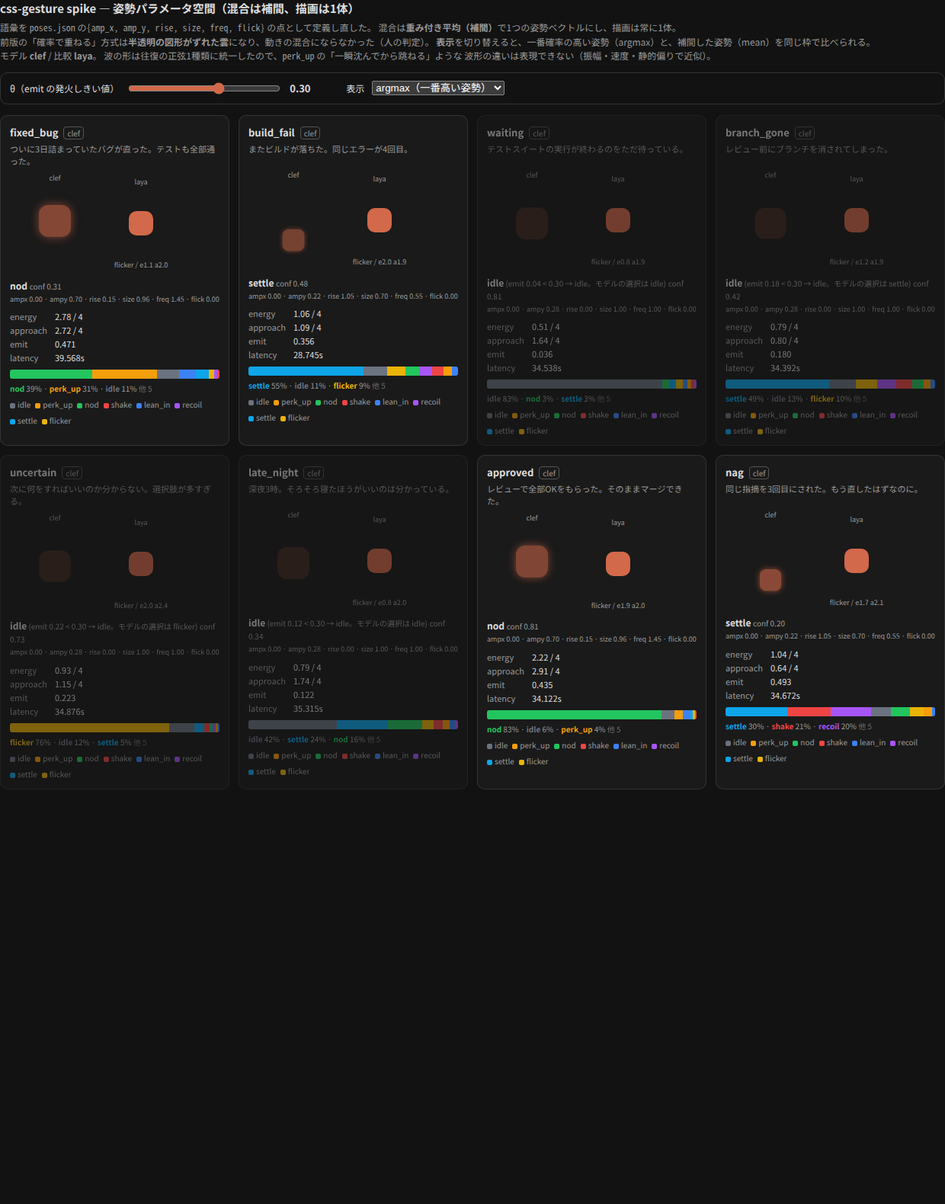
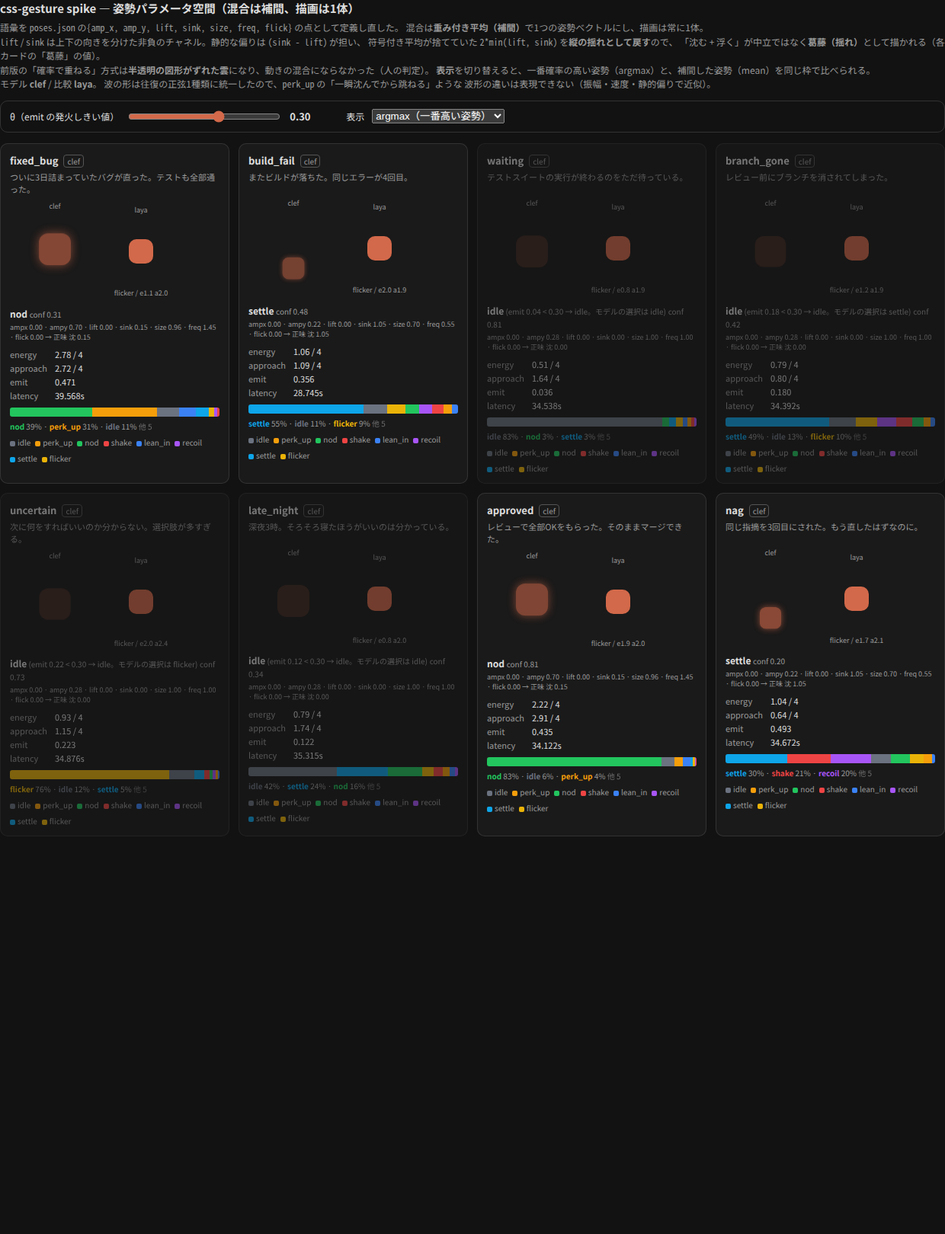
feat(experiments): css-gesture の rise を lift/sink に分割（相殺の修正）
実測で rise が唯一の符号付き次元で、相殺率が 8状態平均 55% だった
（amp_x 0% / flick 0% は片側にしかジェスチャーが無いため）。個別には nag 80% /
fixed_bug 72%。fixed_bug と approved が同じ姿勢になったのは意味が近いからではなく、
差がちょうど相殺される場所にあったため（相殺後の rise が -0.098 と +0.092）。

原理: 線形空間に符号付きの次元を置くと「沈む + 浮く = 中立」を仮定してしまう。
実際は「沈む + 浮く = 葛藤」。nod/shake で軸を分けたのと同じ解決を上下にも適用。

- poses.json: rise を lift / sink（非負）に置換。各ジェスチャーは片方だけを立てる
- 復元則: 静的な偏り = (sink - lift)、縦の振れ幅に + 2*min(lift, sink) を加算。
  これは符号付き平均が捨てる量そのもの（lift + sink - |sink - lift| = 2*min(lift, sink)）
  なので、捨てていた情報を振れとして回復する
- build_viewer.py: varsFor / poseText を更新。葛藤の値をカードに表示
- gestures.css: コメントで復元則を明記（構造変更なし）

検証（アニメを 0% に凍結して getBoundingClientRect で実測）:
- fixed_bug vs approved の縦振幅差 1.08x → 1.31x（中心ズレも -15/-11 → -20/-12 に分離）
- nag の縦振幅 5.51 → 12.09px（2.19x）。相殺で消えていた落ち込みの揺れが戻った
- 単一ジェスチャーは不変: argmax モードで葛藤項が 8/8 件すべて 0。
  片方だけ非ゼロなら min=0 なので純粋な姿勢は旧版と完全に同一。混合のときだけ効く

diff --git a/docs/experiments/css-gesture/index.html b/docs/experiments/css-gesture/index.html
@@ -10,10 +10,10 @@
  * そこで語彙を poses.json の「姿勢パラメータ空間の点」として定義し直し、
  * 混合は**重み付き平均（補間）**で1つの姿勢ベクトルにした。描画は常に1体。
  *
- * 受け取る変数（build_viewer.py が計算して inline style で入れる）:
+ * 受け取る変数（build_viewer.py の JS が計算して inline style で入れる）:
  *   --p-ampx : 横振幅（px）
- *   --p-ampy : 縦振幅（px）
- *   --p-rise : 上下の静的偏り（px。正 = 沈む）
+ *   --p-ampy : 縦振幅（px）。混合の「葛藤」分（2*min(lift, sink)）もここに加算済み
+ *   --p-rise : 上下の静的偏り（px。正 = 沈む）。元は (sink - lift)
  *   --p-size : 体の大きさ
  *   --p-freq : 動きの速さ（大きいほど速い。周期の逆数の相対値）
  *   --p-flick: 明滅の強さ（0-1）
@@ -21,6 +21,7 @@
  *   --p-glow : 発光の強さ（発火の強さ）
  *
  * 軸（縦/横）が連続量なので、nod と shake の混合は「斜めの振れ」として素直に出る。
+ * 上下も lift / sink に割ってあるので、「沈む + 浮く」は相殺せず縦の揺れになる。
  */
 
 .stage {
@@ -134,8 +135,11 @@ dd { margin: 0; font-variant-numeric: tabular-nums; }
 <body>
 <h1>css-gesture spike — 姿勢パラメータ空間（混合は補間、描画は1体）</h1>
 <p class="sub">
-語彙を <code>poses.json</code> の<code>&lbrace;amp_x, amp_y, rise, size, freq, flick&rbrace;</code> の点として定義し直した。
+語彙を <code>poses.json</code> の<code>&lbrace;amp_x, amp_y, lift, sink, size, freq, flick&rbrace;</code> の点として定義し直した。
 混合は<strong>重み付き平均（補間）</strong>で1つの姿勢ベクトルにし、描画は常に1体。<br>
+<code>lift</code> / <code>sink</code> は上下の向きを分けた非負のチャネル。静的な偏りは <code>(sink - lift)</code> が担い、
+符号付き平均が捨てていた <code>2*min(lift, sink)</code> を<strong>縦の揺れとして戻す</strong>ので、
+「沈む + 浮く」が中立ではなく<strong>葛藤（揺れ）</strong>として描かれる（各カードの「葛藤」の値）。<br>
 前版の「確率で重ねる」方式は<strong>半透明の図形がずれた雲</strong>になり、動きの混合にならなかった（人の判定）。
 <strong>表示</strong>を切り替えると、一番確率の高い姿勢（argmax）と、補間した姿勢（mean）を同じ枠で比べられる。<br>
 モデル <b>clef</b> / 比較 <b>laya</b>。
@@ -162,15 +166,15 @@ dd { margin: 0; font-variant-numeric: tabular-nums; }
       <div class="cmp">
         <div class="cmp-label">clef</div>
         <div class="stage"><div class="body" data-role="main"
-        data-pose-top="{&quot;amp_x&quot;: 0.0, &quot;amp_y&quot;: 0.7, &quot;rise&quot;: 0.15, &quot;size&quot;: 0.96, &quot;freq&quot;: 1.45, &quot;flick&quot;: 0.0}"
-        data-pose-mean="{&quot;amp_x&quot;: 0.0083, &quot;amp_y&quot;: 0.6587, &quot;rise&quot;: -0.0976, &quot;size&quot;: 1.0129, &quot;freq&quot;: 1.3728, &quot;flick&quot;: 0.0267}"
+        data-pose-top="{&quot;amp_x&quot;: 0.0, &quot;amp_y&quot;: 0.7, &quot;lift&quot;: 0.0, &quot;sink&quot;: 0.15, &quot;size&quot;: 0.96, &quot;freq&quot;: 1.45, &quot;flick&quot;: 0.0}"
+        data-pose-mean="{&quot;amp_x&quot;: 0.0083, &quot;amp_y&quot;: 0.6587, &quot;lift&quot;: 0.2211, &quot;sink&quot;: 0.1235, &quot;size&quot;: 1.0129, &quot;freq&quot;: 1.3728, &quot;flick&quot;: 0.0267}"
         data-energy="2.781948281233433" data-approach="2.7248762040554406" data-emit="0.47065061788877743"
         data-top="nod"></div></div>
       </div>
       <div class="cmp">
         <div class="cmp-label">laya</div>
         <div class="stage sm"><div class="body" data-role="cmp"
-          data-pose="{&quot;amp_x&quot;: 0.1151, &quot;amp_y&quot;: 0.2086, &quot;rise&quot;: 0.0006, &quot;size&quot;: 0.9734, &quot;freq&quot;: 1.2081, &quot;flick&quot;: 0.5328}"
+          data-pose="{&quot;amp_x&quot;: 0.1151, &quot;amp_y&quot;: 0.2086, &quot;lift&quot;: 0.1078, &quot;sink&quot;: 0.1084, &quot;size&quot;: 0.9734, &quot;freq&quot;: 1.2081, &quot;flick&quot;: 0.5328}"
           data-energy="1.1085895315065621" data-approach="2.010867446223232"
           data-emit="0.05416380573906749"></div></div>
         <div class="cmp-meta">flicker / e1.1 a2.0</div>
@@ -195,15 +199,15 @@ dd { margin: 0; font-variant-numeric: tabular-nums; }
       <div class="cmp">
         <div class="cmp-label">clef</div>
         <div class="stage"><div class="body" data-role="main"
-        data-pose-top="{&quot;amp_x&quot;: 0.0, &quot;amp_y&quot;: 0.22, &quot;rise&quot;: 1.05, &quot;size&quot;: 0.7, &quot;freq&quot;: 0.55, &quot;flick&quot;: 0.0}"
-        data-pose-mean="{&quot;amp_x&quot;: 0.0469, &quot;amp_y&quot;: 0.3059, &quot;rise&quot;: 0.4884, &quot;size&quot;: 0.8325, &quot;freq&quot;: 0.9243, &quot;flick&quot;: 0.0869}"
+        data-pose-top="{&quot;amp_x&quot;: 0.0, &quot;amp_y&quot;: 0.22, &quot;lift&quot;: 0.0, &quot;sink&quot;: 1.05, &quot;size&quot;: 0.7, &quot;freq&quot;: 0.55, &quot;flick&quot;: 0.0}"
+        data-pose-mean="{&quot;amp_x&quot;: 0.0469, &quot;amp_y&quot;: 0.3059, &quot;lift&quot;: 0.0965, &quot;sink&quot;: 0.5849, &quot;size&quot;: 0.8325, &quot;freq&quot;: 0.9243, &quot;flick&quot;: 0.0869}"
         data-energy="1.059922208640876" data-approach="1.0891702567640278" data-emit="0.3558336394126617"
         data-top="settle"></div></div>
       </div>
       <div class="cmp">
         <div class="cmp-label">laya</div>
         <div class="stage sm"><div class="body" data-role="cmp"
-          data-pose="{&quot;amp_x&quot;: 0.0629, &quot;amp_y&quot;: 0.1346, &quot;rise&quot;: 0.0039, &quot;size&quot;: 0.9885, &quot;freq&quot;: 1.1479, &quot;flick&quot;: 0.7523}"
+          data-pose="{&quot;amp_x&quot;: 0.0629, &quot;amp_y&quot;: 0.1346, &quot;lift&quot;: 0.0537, &quot;sink&quot;: 0.0576, &quot;size&quot;: 0.9885, &quot;freq&quot;: 1.1479, &quot;flick&quot;: 0.7523}"
           data-energy="2.0207871318474595" data-approach="1.9222507569040301"
           data-emit="0.11162016520335129"></div></div>
         <div class="cmp-meta">flicker / e2.0 a1.9</div>
@@ -228,15 +232,15 @@ dd { margin: 0; font-variant-numeric: tabular-nums; }
       <div class="cmp">
         <div class="cmp-label">clef</div>
         <div class="stage"><div class="body" data-role="main"
-        data-pose-top="{&quot;amp_x&quot;: 0.0, &quot;amp_y&quot;: 0.28, &quot;rise&quot;: 0.0, &quot;size&quot;: 1.0, &quot;freq&quot;: 1.0, &quot;flick&quot;: 0.0}"
-        data-pose-mean="{&quot;amp_x&quot;: 0.0109, &quot;amp_y&quot;: 0.3039, &quot;rise&quot;: 0.009, &quot;size&quot;: 0.9936, &quot;freq&quot;: 1.0325, &quot;flick&quot;: 0.0312}"
+        data-pose-top="{&quot;amp_x&quot;: 0.0, &quot;amp_y&quot;: 0.28, &quot;lift&quot;: 0.0, &quot;sink&quot;: 0.0, &quot;size&quot;: 1.0, &quot;freq&quot;: 1.0, &quot;flick&quot;: 0.0}"
+        data-pose-mean="{&quot;amp_x&quot;: 0.0109, &quot;amp_y&quot;: 0.3039, &quot;lift&quot;: 0.032, &quot;sink&quot;: 0.041, &quot;size&quot;: 0.9936, &quot;freq&quot;: 1.0325, &quot;flick&quot;: 0.0312}"
         data-energy="0.5057425893281169" data-approach="1.639626740264764" data-emit="0.03626141769958141"
         data-top="idle"></div></div>
       </div>
       <div class="cmp">
         <div class="cmp-label">laya</div>
         <div class="stage sm"><div class="body" data-role="cmp"
-          data-pose="{&quot;amp_x&quot;: 0.1534, &quot;amp_y&quot;: 0.1867, &quot;rise&quot;: 0.0031, &quot;size&quot;: 0.9815, &quot;freq&quot;: 1.2047, &quot;flick&quot;: 0.4701}"
+          data-pose="{&quot;amp_x&quot;: 0.1534, &quot;amp_y&quot;: 0.1867, &quot;lift&quot;: 0.0772, &quot;sink&quot;: 0.0803, &quot;size&quot;: 0.9815, &quot;freq&quot;: 1.2047, &quot;flick&quot;: 0.4701}"
           data-energy="0.8035862374487781" data-approach="1.8855115480383735"
           data-emit="0.062105065616315916"></div></div>
         <div class="cmp-meta">flicker / e0.8 a1.9</div>
@@ -261,15 +265,15 @@ dd { margin: 0; font-variant-numeric: tabular-nums; }
       <div class="cmp">
         <div class="cmp-label">clef</div>
         <div class="stage"><div class="body" data-role="main"
-        data-pose-top="{&quot;amp_x&quot;: 0.0, &quot;amp_y&quot;: 0.22, &quot;rise&quot;: 1.05, &quot;size&quot;: 0.7, &quot;freq&quot;: 0.55, &quot;flick&quot;: 0.0}"
-        data-pose-mean="{&quot;amp_x&quot;: 0.0693, &quot;amp_y&quot;: 0.3037, &quot;rise&quot;: 0.4097, &quot;size&quot;: 0.8414, &quot;freq&quot;: 0.9927, &quot;flick&quot;: 0.1004}"
+        data-pose-top="{&quot;amp_x&quot;: 0.0, &quot;amp_y&quot;: 0.22, &quot;lift&quot;: 0.0, &quot;sink&quot;: 1.05, &quot;size&quot;: 0.7, &quot;freq&quot;: 0.55, &quot;flick&quot;: 0.0}"
+        data-pose-mean="{&quot;amp_x&quot;: 0.0693, &quot;amp_y&quot;: 0.3037, &quot;lift&quot;: 0.1169, &quot;sink&quot;: 0.5266, &quot;size&quot;: 0.8414, &quot;freq&quot;: 0.9927, &quot;flick&quot;: 0.1004}"
         data-energy="0.7860229123961211" data-approach="0.7995392655666422" data-emit="0.17981665398860586"
         data-top="settle"></div></div>
       </div>
       <div class="cmp">
         <div class="cmp-label">laya</div>
         <div class="stage sm"><div class="body" data-role="cmp"
-          data-pose="{&quot;amp_x&quot;: 0.0538, &quot;amp_y&quot;: 0.1484, &quot;rise&quot;: 0.0239, &quot;size&quot;: 0.9803, &quot;freq&quot;: 1.1345, &quot;flick&quot;: 0.7132}"
+          data-pose="{&quot;amp_x&quot;: 0.0538, &quot;amp_y&quot;: 0.1484, &quot;lift&quot;: 0.059, &quot;sink&quot;: 0.0828, &quot;size&quot;: 0.9803, &quot;freq&quot;: 1.1345, &quot;flick&quot;: 0.7132}"
           data-energy="1.2071314724795634" data-approach="1.8806378961439547"
           data-emit="0.028199451682429315"></div></div>
         <div class="cmp-meta">flicker / e1.2 a1.9</div>
@@ -294,15 +298,15 @@ dd { margin: 0; font-variant-numeric: tabular-nums; }
       <div class="cmp">
         <div class="cmp-label">clef</div>
         <div class="stage"><div class="body" data-role="main"
-        data-pose-top="{&quot;amp_x&quot;: 0.0, &quot;amp_y&quot;: 0.06, &quot;rise&quot;: 0.0, &quot;size&quot;: 1.0, &quot;freq&quot;: 1.1, &quot;flick&quot;: 1.0}"
-        data-pose-mean="{&quot;amp_x&quot;: 0.0226, &quot;amp_y&quot;: 0.1249, &quot;rise&quot;: 0.0275, &quot;size&quot;: 0.9856, &quot;freq&quot;: 1.1017, &quot;flick&quot;: 0.7599}"
+        data-pose-top="{&quot;amp_x&quot;: 0.0, &quot;amp_y&quot;: 0.06, &quot;lift&quot;: 0.0, &quot;sink&quot;: 0.0, &quot;size&quot;: 1.0, &quot;freq&quot;: 1.1, &quot;flick&quot;: 1.0}"
+        data-pose-mean="{&quot;amp_x&quot;: 0.0226, &quot;amp_y&quot;: 0.1249, &quot;lift&quot;: 0.0231, &quot;sink&quot;: 0.0505, &quot;size&quot;: 0.9856, &quot;freq&quot;: 1.1017, &quot;flick&quot;: 0.7599}"
         data-energy="0.9302040205270176" data-approach="1.150667561300046" data-emit="0.22343648219510964"
         data-top="flicker"></div></div>
       </div>
       <div class="cmp">
         <div class="cmp-label">laya</div>
         <div class="stage sm"><div class="body" data-role="cmp"
-          data-pose="{&quot;amp_x&quot;: 0.209, &quot;amp_y&quot;: 0.2379, &quot;rise&quot;: 0.018, &quot;size&quot;: 0.9743, &quot;freq&quot;: 1.2336, &quot;flick&quot;: 0.3044}"
+          data-pose="{&quot;amp_x&quot;: 0.209, &quot;amp_y&quot;: 0.2379, &quot;lift&quot;: 0.1219, &quot;sink&quot;: 0.1398, &quot;size&quot;: 0.9743, &quot;freq&quot;: 1.2336, &quot;flick&quot;: 0.3044}"
           data-energy="1.9930983482359932" data-approach="2.3641832389921715"
           data-emit="0.034546244783597004"></div></div>
         <div class="cmp-meta">flicker / e2.0 a2.4</div>
@@ -327,15 +331,15 @@ dd { margin: 0; font-variant-numeric: tabular-nums; }
       <div class="cmp">
         <div class="cmp-label">clef</div>
         <div class="stage"><div class="body" data-role="main"
-        data-pose-top="{&quot;amp_x&quot;: 0.0, &quot;amp_y&quot;: 0.28, &quot;rise&quot;: 0.0, &quot;size&quot;: 1.0, &quot;freq&quot;: 1.0, &quot;flick&quot;: 0.0}"
-        data-pose-mean="{&quot;amp_x&quot;: 0.0387, &quot;amp_y&quot;: 0.3433, &quot;rise&quot;: 0.2374, &quot;size&quot;: 0.9274, &quot;freq&quot;: 1.0313, &quot;flick&quot;: 0.0554}"
+        data-pose-top="{&quot;amp_x&quot;: 0.0, &quot;amp_y&quot;: 0.28, &quot;lift&quot;: 0.0, &quot;sink&quot;: 0.0, &quot;size&quot;: 1.0, &quot;freq&quot;: 1.0, &quot;flick&quot;: 0.0}"
+        data-pose-mean="{&quot;amp_x&quot;: 0.0387, &quot;amp_y&quot;: 0.3433, &quot;lift&quot;: 0.0429, &quot;sink&quot;: 0.2803, &quot;size&quot;: 0.9274, &quot;freq&quot;: 1.0313, &quot;flick&quot;: 0.0554}"
         data-energy="0.7930367697916169" data-approach="1.7409923557947473" data-emit="0.12216669888904044"
         data-top="idle"></div></div>
       </div>
       <div class="cmp">
         <div class="cmp-label">laya</div>
         <div class="stage sm"><div class="body" data-role="cmp"
-          data-pose="{&quot;amp_x&quot;: 0.0181, &quot;amp_y&quot;: 0.0975, &quot;rise&quot;: 0.0163, &quot;size&quot;: 0.9909, &quot;freq&quot;: 1.1069, &quot;flick&quot;: 0.8811}"
+          data-pose="{&quot;amp_x&quot;: 0.0181, &quot;amp_y&quot;: 0.0975, &quot;lift&quot;: 0.024, &quot;sink&quot;: 0.0403, &quot;size&quot;: 0.9909, &quot;freq&quot;: 1.1069, &quot;flick&quot;: 0.8811}"
           data-energy="0.8381388772002609" data-approach="1.9996774136961555"
           data-emit="0.0017712571088769281"></div></div>
         <div class="cmp-meta">flicker / e0.8 a2.0</div>
@@ -360,15 +364,15 @@ dd { margin: 0; font-variant-numeric: tabular-nums; }
       <div class="cmp">
         <div class="cmp-label">clef</div>
         <div class="stage"><div class="body" data-role="main"
-        data-pose-top="{&quot;amp_x&quot;: 0.0, &quot;amp_y&quot;: 0.7, &quot;rise&quot;: 0.15, &quot;size&quot;: 0.96, &quot;freq&quot;: 1.45, &quot;flick&quot;: 0.0}"
-        data-pose-mean="{&quot;amp_x&quot;: 0.0036, &quot;amp_y&quot;: 0.6603, &quot;rise&quot;: 0.0919, &quot;size&quot;: 0.9759, &quot;freq&quot;: 1.3979, &quot;flick&quot;: 0.009}"
+        data-pose-top="{&quot;amp_x&quot;: 0.0, &quot;amp_y&quot;: 0.7, &quot;lift&quot;: 0.0, &quot;sink&quot;: 0.15, &quot;size&quot;: 0.96, &quot;freq&quot;: 1.45, &quot;flick&quot;: 0.0}"
+        data-pose-mean="{&quot;amp_x&quot;: 0.0036, &quot;amp_y&quot;: 0.6603, &quot;lift&quot;: 0.0432, &quot;sink&quot;: 0.135, &quot;size&quot;: 0.9759, &quot;freq&quot;: 1.3979, &quot;flick&quot;: 0.009}"
         data-energy="2.223484666090634" data-approach="2.906082483303416" data-emit="0.4345962403544053"
         data-top="nod"></div></div>
       </div>
       <div class="cmp">
         <div class="cmp-label">laya</div>
         <div class="stage sm"><div class="body" data-role="cmp"
-          data-pose="{&quot;amp_x&quot;: 0.1554, &quot;amp_y&quot;: 0.257, &quot;rise&quot;: 0.0045, &quot;size&quot;: 0.9793, &quot;freq&quot;: 1.2256, &quot;flick&quot;: 0.3745}"
+          data-pose="{&quot;amp_x&quot;: 0.1554, &quot;amp_y&quot;: 0.257, &quot;lift&quot;: 0.1222, &quot;sink&quot;: 0.1267, &quot;size&quot;: 0.9793, &quot;freq&quot;: 1.2256, &quot;flick&quot;: 0.3745}"
           data-energy="1.890232044951825" data-approach="2.0482492346587278"
           data-emit="0.08107550230782218"></div></div>
         <div class="cmp-meta">flicker / e1.9 a2.0</div>
@@ -393,15 +397,15 @@ dd { margin: 0; font-variant-numeric: tabular-nums; }
       <div class="cmp">
         <div class="cmp-label">clef</div>
         <div class="stage"><div class="body" data-role="main"
-        data-pose-top="{&quot;amp_x&quot;: 0.0, &quot;amp_y&quot;: 0.22, &quot;rise&quot;: 1.05, &quot;size&quot;: 0.7, &quot;freq&quot;: 0.55, &quot;flick&quot;: 0.0}"
-        data-pose-mean="{&quot;amp_x&quot;: 0.1847, &quot;amp_y&quot;: 0.3576, &quot;rise&quot;: 0.1102, &quot;size&quot;: 0.8802, &quot;freq&quot;: 1.3049, &quot;flick&quot;: 0.067}"
+        data-pose-top="{&quot;amp_x&quot;: 0.0, &quot;amp_y&quot;: 0.22, &quot;lift&quot;: 0.0, &quot;sink&quot;: 1.05, &quot;size&quot;: 0.7, &quot;freq&quot;: 0.55, &quot;flick&quot;: 0.0}"
+        data-pose-mean="{&quot;amp_x&quot;: 0.1847, &quot;amp_y&quot;: 0.3576, &quot;lift&quot;: 0.2139, &quot;sink&quot;: 0.3241, &quot;size&quot;: 0.8802, &quot;freq&quot;: 1.3049, &quot;flick&quot;: 0.067}"
         data-energy="1.0351038252136997" data-approach="0.6439321590020773" data-emit="0.49276928165859474"
         data-top="settle"></div></div>
       </div>
       <div class="cmp">
         <div class="cmp-label">laya</div>
         <div class="stage sm"><div class="body" data-role="cmp"
-          data-pose="{&quot;amp_x&quot;: 0.2185, &quot;amp_y&quot;: 0.2632, &quot;rise&quot;: -0.0086, &quot;size&quot;: 0.9781, &quot;freq&quot;: 1.2693, &quot;flick&quot;: 0.2854}"
+          data-pose="{&quot;amp_x&quot;: 0.2185, &quot;amp_y&quot;: 0.2632, &quot;lift&quot;: 0.1428, &quot;sink&quot;: 0.1341, &quot;size&quot;: 0.9781, &quot;freq&quot;: 1.2693, &quot;flick&quot;: 0.2854}"
           data-energy="1.705721753118623" data-approach="2.117846401295882"
           data-emit="0.10074516323507156"></div></div>
         <div class="cmp-meta">flicker / e1.7 a2.1</div>
@@ -421,17 +425,25 @@ dd { margin: 0; font-variant-numeric: tabular-nums; }
   </div></div>
 <script>
 const PX = 18.0;
-const IDLE = {"amp_x": 0.0, "amp_y": 0.28, "rise": 0.0, "size": 1.0, "freq": 1.0, "flick": 0.0};
+const IDLE = {"amp_x": 0.0, "amp_y": 0.28, "lift": 0.0, "sink": 0.0, "size": 1.0, "freq": 1.0, "flick": 0.0};
 
-/* 姿勢ベクトル + score/noul → CSS 変数。写像はここ1箇所だけに置く。 */
+/* 姿勢ベクトル + score/noul → CSS 変数。写像はここ1箇所だけに置く。
+ *
+ * lift / sink の扱い（poses.json の _recovery_rule）:
+ *   静的な上下オフセット = (sink - lift)          … 姿勢としての沈み／浮き
+ *   縦の振れ幅に + 2*min(lift, sink)              … 符号付き平均が捨てていた量をそのまま戻す
+ *   （lift + sink - |sink - lift| = 2*min(lift, sink)）
+ * 片方だけ非ゼロの単一ジェスチャーでは min=0 なので振れは増えない。
+ * 混合のときだけ「葛藤が揺れとして見える」。 */
 function varsFor(pose, energy, approach, emit) {
   const ampS  = 0.70 + 0.15 * energy;     // energy 0->4 で 0.70 -> 1.30
   const freqM = 1.00 + 0.18 * energy;     // 1.00 -> 1.72
   const sizeM = 0.94 + 0.035 * approach;  // 0.94 -> 1.08
+  const conflict = 2 * Math.min(pose.lift, pose.sink);
   return {
     '--p-ampx':  (pose.amp_x * PX * ampS).toFixed(2),
-    '--p-ampy':  (pose.amp_y * PX * ampS).toFixed(2),
-    '--p-rise':  (pose.rise * PX).toFixed(2),
+    '--p-ampy':  ((pose.amp_y + conflict) * PX * ampS).toFixed(2),
+    '--p-rise':  ((pose.sink - pose.lift) * PX).toFixed(2),
     '--p-size':  (pose.size * sizeM).toFixed(3),
     '--p-freq':  (pose.freq * freqM).toFixed(3),
     '--p-flick': (pose.flick).toFixed(3),
@@ -442,9 +454,14 @@ function varsFor(pose, energy, approach, emit) {
 
 function poseText(pose) {
   const f = (v, n) => v.toFixed(n);
+  const conflict = 2 * Math.min(pose.lift, pose.sink);
+  const net = pose.sink - pose.lift;
   return 'ampx ' + f(pose.amp_x, 2) + ' · ampy ' + f(pose.amp_y, 2)
-       + ' · rise ' + f(pose.rise, 2) + ' · size ' + f(pose.size, 2)
-       + ' · freq ' + f(pose.freq, 2) + ' · flick ' + f(pose.flick, 2);
+       + ' · lift ' + f(pose.lift, 2) + ' · sink ' + f(pose.sink, 2)
+       + ' · size ' + f(pose.size, 2) + ' · freq ' + f(pose.freq, 2)
+       + ' · flick ' + f(pose.flick, 2)
+       + '  →  正味 ' + (net >= 0 ? '沈 ' : '浮 ') + f(Math.abs(net), 2)
+       + (conflict > 0.02 ? ' / 葛藤 ' + f(conflict, 2) : '');
 }
 
 function apply(theta, mode) {

diff --git a/docs/experiments/css-gesture/gestures.css b/docs/experiments/css-gesture/gestures.css
@@ -6,10 +6,10 @@
  * そこで語彙を poses.json の「姿勢パラメータ空間の点」として定義し直し、
  * 混合は**重み付き平均（補間）**で1つの姿勢ベクトルにした。描画は常に1体。
  *
- * 受け取る変数（build_viewer.py が計算して inline style で入れる）:
+ * 受け取る変数（build_viewer.py の JS が計算して inline style で入れる）:
  *   --p-ampx : 横振幅（px）
- *   --p-ampy : 縦振幅（px）
- *   --p-rise : 上下の静的偏り（px。正 = 沈む）
+ *   --p-ampy : 縦振幅（px）。混合の「葛藤」分（2*min(lift, sink)）もここに加算済み
+ *   --p-rise : 上下の静的偏り（px。正 = 沈む）。元は (sink - lift)
  *   --p-size : 体の大きさ
  *   --p-freq : 動きの速さ（大きいほど速い。周期の逆数の相対値）
  *   --p-flick: 明滅の強さ（0-1）
@@ -17,6 +17,7 @@
  *   --p-glow : 発光の強さ（発火の強さ）
  *
  * 軸（縦/横）が連続量なので、nod と shake の混合は「斜めの振れ」として素直に出る。
+ * 上下も lift / sink に割ってあるので、「沈む + 浮く」は相殺せず縦の揺れになる。
  */
 
 .stage {

diff --git a/docs/experiments/css-gesture/build_viewer.py b/docs/experiments/css-gesture/build_viewer.py
@@ -118,9 +118,10 @@ def main() -> None:
         energy = row.get("energy") or 0.0
         approach = row.get("approach") or 0.0
         emit = row.get("emit") or 0.0
-        report.append(f"  {row['key']:12} top={top:9} mean=ampx{mean_r['amp_x']:.2f} "
-                      f"ampy{mean_r['amp_y']:.2f} rise{mean_r['rise']:+.2f} size{mean_r['size']:.2f} "
-                      f"freq{mean_r['freq']:.2f} flick{mean_r['flick']:.2f}")
+        report.append(f"  {row['key']:12} top={top:9} ampx{mean_r['amp_x']:.2f} "
+                      f"ampy{mean_r['amp_y']:.2f} lift{mean_r['lift']:.2f} sink{mean_r['sink']:.2f} "
+                      f"size{mean_r['size']:.2f} freq{mean_r['freq']:.2f} flick{mean_r['flick']:.2f} "
+                      f"| 葛藤{2*min(mean_r['lift'], mean_r['sink']):.3f} 正味{mean_r['sink']-mean_r['lift']:+.3f}")
 
         # Laya を並べる（同じ姿勢空間で描く）
         other_html = ""
@@ -228,8 +229,11 @@ dd {{ margin: 0; font-variant-numeric: tabular-nums; }}
 <body>
 <h1>css-gesture spike — 姿勢パラメータ空間（混合は補間、描画は1体）</h1>
 <p class="sub">
-語彙を <code>poses.json</code> の<code>&lbrace;amp_x, amp_y, rise, size, freq, flick&rbrace;</code> の点として定義し直した。
+語彙を <code>poses.json</code> の<code>&lbrace;amp_x, amp_y, lift, sink, size, freq, flick&rbrace;</code> の点として定義し直した。
 混合は<strong>重み付き平均（補間）</strong>で1つの姿勢ベクトルにし、描画は常に1体。<br>
+<code>lift</code> / <code>sink</code> は上下の向きを分けた非負のチャネル。静的な偏りは <code>(sink - lift)</code> が担い、
+符号付き平均が捨てていた <code>2*min(lift, sink)</code> を<strong>縦の揺れとして戻す</strong>ので、
+「沈む + 浮く」が中立ではなく<strong>葛藤（揺れ）</strong>として描かれる（各カードの「葛藤」の値）。<br>
 前版の「確率で重ねる」方式は<strong>半透明の図形がずれた雲</strong>になり、動きの混合にならなかった（人の判定）。
 <strong>表示</strong>を切り替えると、一番確率の高い姿勢（argmax）と、補間した姿勢（mean）を同じ枠で比べられる。<br>
 モデル <b>{data['model']}</b> / 比較 <b>{cmp_data['model'] if cmp_data else '-'}</b>。
@@ -253,15 +257,23 @@ dd {{ margin: 0; font-variant-numeric: tabular-nums; }}
 const PX = {P['px_per_unit']};
 const IDLE = {json.dumps(gestures['idle'])};
 
-/* 姿勢ベクトル + score/noul → CSS 変数。写像はここ1箇所だけに置く。 */
+/* 姿勢ベクトル + score/noul → CSS 変数。写像はここ1箇所だけに置く。
+ *
+ * lift / sink の扱い（poses.json の _recovery_rule）:
+ *   静的な上下オフセット = (sink - lift)          … 姿勢としての沈み／浮き
+ *   縦の振れ幅に + 2*min(lift, sink)              … 符号付き平均が捨てていた量をそのまま戻す
+ *   （lift + sink - |sink - lift| = 2*min(lift, sink)）
+ * 片方だけ非ゼロの単一ジェスチャーでは min=0 なので振れは増えない。
+ * 混合のときだけ「葛藤が揺れとして見える」。 */
 function varsFor(pose, energy, approach, emit) {{
   const ampS  = 0.70 + 0.15 * energy;     // energy 0->4 で 0.70 -> 1.30
   const freqM = 1.00 + 0.18 * energy;     // 1.00 -> 1.72
   const sizeM = 0.94 + 0.035 * approach;  // 0.94 -> 1.08
+  const conflict = 2 * Math.min(pose.lift, pose.sink);
   return {{
     '--p-ampx':  (pose.amp_x * PX * ampS).toFixed(2),
-    '--p-ampy':  (pose.amp_y * PX * ampS).toFixed(2),
-    '--p-rise':  (pose.rise * PX).toFixed(2),
+    '--p-ampy':  ((pose.amp_y + conflict) * PX * ampS).toFixed(2),
+    '--p-rise':  ((pose.sink - pose.lift) * PX).toFixed(2),
     '--p-size':  (pose.size * sizeM).toFixed(3),
     '--p-freq':  (pose.freq * freqM).toFixed(3),
     '--p-flick': (pose.flick).toFixed(3),
@@ -272,9 +284,14 @@ function varsFor(pose, energy, approach, emit) {{
 
 function poseText(pose) {{
   const f = (v, n) => v.toFixed(n);
+  const conflict = 2 * Math.min(pose.lift, pose.sink);
+  const net = pose.sink - pose.lift;
   return 'ampx ' + f(pose.amp_x, 2) + ' · ampy ' + f(pose.amp_y, 2)
-       + ' · rise ' + f(pose.rise, 2) + ' · size ' + f(pose.size, 2)
-       + ' · freq ' + f(pose.freq, 2) + ' · flick ' + f(pose.flick, 2);
+       + ' · lift ' + f(pose.lift, 2) + ' · sink ' + f(pose.sink, 2)
+       + ' · size ' + f(pose.size, 2) + ' · freq ' + f(pose.freq, 2)
+       + ' · flick ' + f(pose.flick, 2)
+       + '  →  正味 ' + (net >= 0 ? '沈 ' : '浮 ') + f(Math.abs(net), 2)
+       + (conflict > 0.02 ? ' / 葛藤 ' + f(conflict, 2) : '');
 }}
 
 function apply(theta, mode) {{
